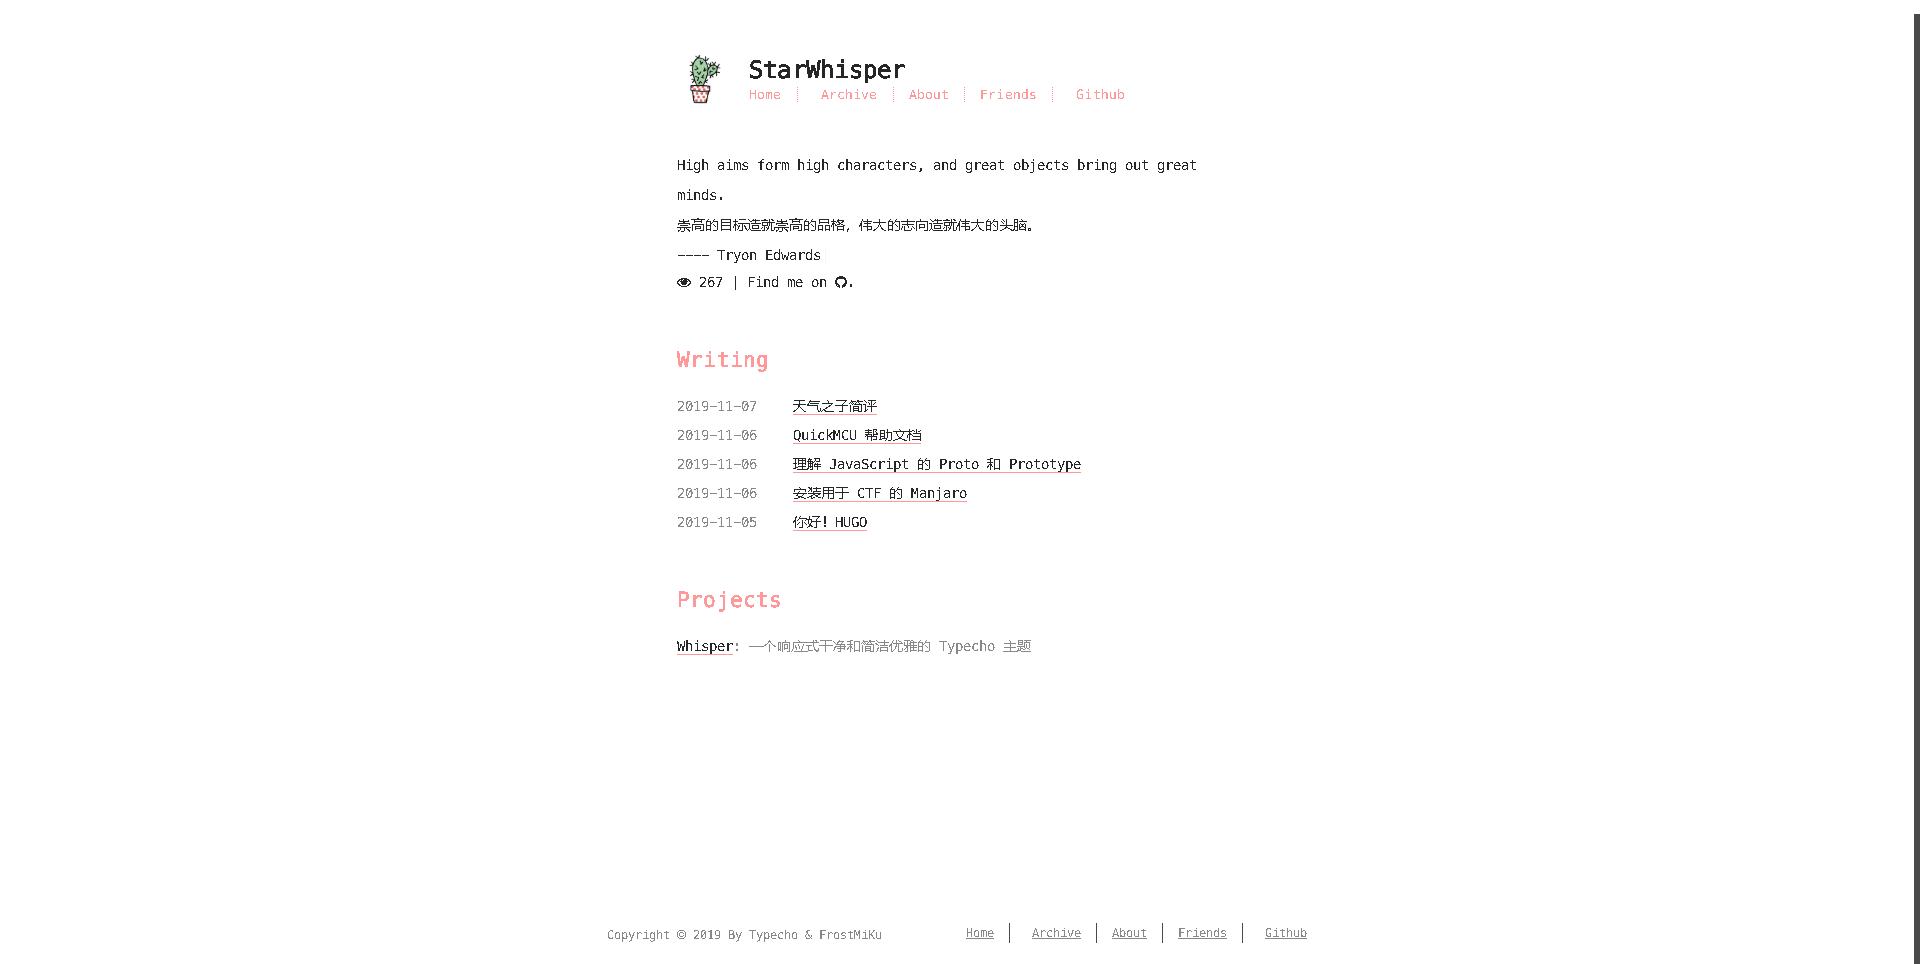
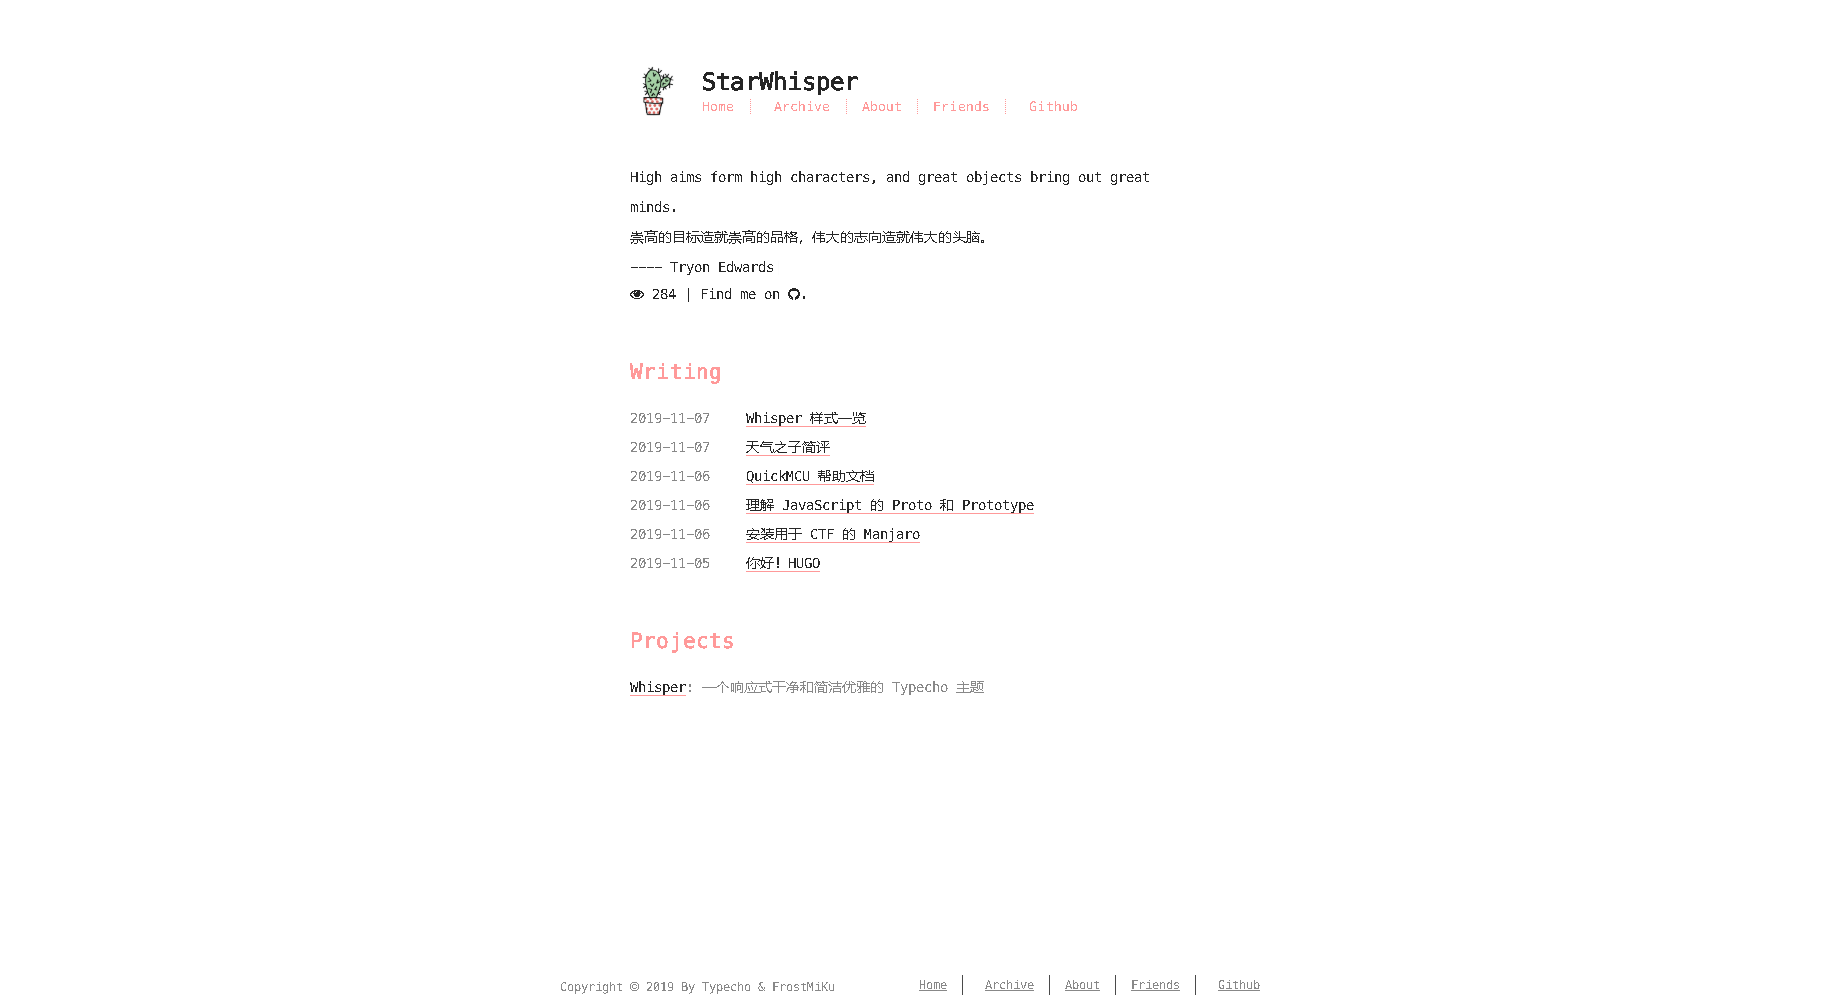
细节修改

diff --git a/css/style.css b/css/style.css
@@ -88,7 +88,7 @@ a{-webkit-tap-highlight-color:transparent}
 .content h5,.content h6{display:inline-block}
 .content dt,.content strong,.content th{font-weight:700}
 .content h3,.content h4,.content h5,.content h6{margin-top:.9rem;margin-bottom:.5rem}
-.content hr{border:1px dashed #ccc}
+.content hr{border:1px solid #f5f6f7}
 #header #nav ul li,#header-post #nav ul li{border-right:1px dotted #FF9999}
 .content cite,.content em{font-style:italic}
 .content sub,.content sup{font-size:.75em;line-height:0;position:relative;vertical-align:baseline}
@@ -107,8 +107,8 @@ html{height:100%}
 body{color:#262626;background-color:#ffffff;font-size:14px;font-weight:400;text-rendering:geometricPrecision;min-height:100%;display:flex;flex-direction:column}
 .content{flex:1}
 .content p{-moz-hyphens:auto;-ms-hyphens:auto;-webkit-hyphens:auto;hyphens:auto;margin-bottom:.5rem;word-break:break-all}
-.content p code{color:#ff9999;padding:0}
-.content code,.content pre{-moz-hyphens:manual;-ms-hyphens:manual;-webkit-hyphens:manual;hyphens:manual;margin-bottom:.5rem}
+.content p code{color:#ff9999;padding:0 5px;margin:0 0.5em}
+.content code,.content pre{-moz-hyphens:manual;-ms-hyphens:manual;-webkit-hyphens:manual;hyphens:manual;margin-bottom:.5rem;color:#ff9999;background-color:#f5f6f7}
 .content a{text-decoration:none;color:#262626;word-wrap:break-word;background-repeat:repeat-x;background-position:bottom;background-size:100% 6px;background-image:linear-gradient(transparent,transparent 5px,#ff9999 5px,#ff9999)}
 .content a:hover{color:#ff9999;background-image:linear-gradient(transparent,transparent 5px,#ff9999 5px,#ff9999)}
 .content a.icon{background:0 0}

diff --git a/README.md b/README.md
@@ -2,7 +2,7 @@
 
 ⭐一个响应式干净和简洁优雅的 Typecho 主题
 
-[预览](https://blog.frostmiku.com/)
+[预览](https://blog.frostmiku.com/) | [样式一览](https://blog.frostmiku.com/post/10/)
 
 本项目 fork 自 https://github.com/Seevil/cactus
 
@@ -12,10 +12,10 @@
 
 ## 如何使用
 
-下载最新的 release 
+1. 下载最新的 release 
 
-解压到 usr/themes/ 下
+2. 解压到 usr/themes/ 下
 
-修改 Whisper/manifest.json 文件
+3. 修改 Whisper/manifest.json 文件
 
 完...
